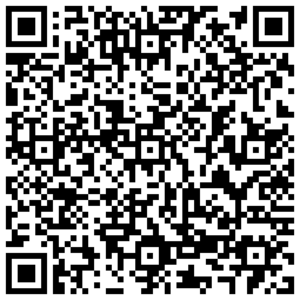
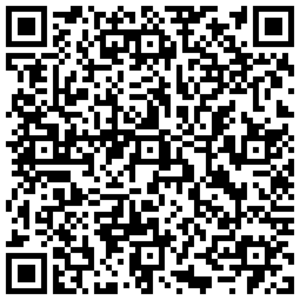
Update free configs - 2025-04-04

diff --git a/README.md b/README.md
@@ -1,6 +1,6 @@
 # 文档下方有很多可直接导入使用的高速节点/二维码订阅
 
-<p align='center'><strong>2025-04-03 12点准时更新每日免费节点，更多机场VPN优惠信息：<a href="https://vpn.tg10000.com">vpn.tg10000.com</a></strong></p>
+<p align='center'><strong>2025-04-04 12点准时更新每日免费节点，更多机场VPN优惠信息：<a href="https://vpn.tg10000.com">vpn.tg10000.com</a></strong></p>
 <p align='center'><strong>Telegram群:<a href="https://t.me/freevpn">@freevpntg</a></strong></p>
 
 
@@ -60,120 +60,120 @@
 
 <p align='center'><img src='img/1.png' alt='QR Code' width='300'></p>
 
-<p align='center'><code>ss://Y2hhY2hhMjAtaWV0Zi1wb2x5MTMwNTpkMmI4NzUxNS00ZDg1LTRiNzAtODg3OS00MWFjMWY4NWIyZTU=@free.2apzhfa.xyz:31141#0%7C%F0%9F%87%AD%F0%9F%87%B0%E9%A6%99%E6%B8%AF%2001%20%7C%201x%20HK</code></p>
+<p align='center'><code>ss://Y2hhY2hhMjAtaWV0Zi1wb2x5MTMwNTo3MmJiYjA4OS0xNWQ2LTQyNWUtYjRmNS05ODExZDFiMDVmYmY=@free.2apzhfa.xyz:31141#0%7C%F0%9F%87%AD%F0%9F%87%B0%E9%A6%99%E6%B8%AF%2001%20%7C%201x%20HK</code></p>
 
 <p align='center'><img src='img/2.png' alt='QR Code' width='300'></p>
 
-<p align='center'><code>ss://Y2hhY2hhMjAtaWV0Zi1wb2x5MTMwNTpkMmI4NzUxNS00ZDg1LTRiNzAtODg3OS00MWFjMWY4NWIyZTU=@free.2apzhfa.xyz:31143#0%7C%F0%9F%87%AD%F0%9F%87%B0%E9%A6%99%E6%B8%AF%2002%20%7C%201x%20HK</code></p>
+<p align='center'><code>ss://Y2hhY2hhMjAtaWV0Zi1wb2x5MTMwNTo3MmJiYjA4OS0xNWQ2LTQyNWUtYjRmNS05ODExZDFiMDVmYmY=@free.2apzhfa.xyz:31143#0%7C%F0%9F%87%AD%F0%9F%87%B0%E9%A6%99%E6%B8%AF%2002%20%7C%201x%20HK</code></p>
 
 <p align='center'><img src='img/3.png' alt='QR Code' width='300'></p>
 
-<p align='center'><code>ss://Y2hhY2hhMjAtaWV0Zi1wb2x5MTMwNTpkMmI4NzUxNS00ZDg1LTRiNzAtODg3OS00MWFjMWY4NWIyZTU=@free.2apzhfa.xyz:31145#0%7C%F0%9F%87%AD%F0%9F%87%B0%E9%A6%99%E6%B8%AF%E5%AE%B6%E5%AE%BD%2003%20%7C%201x%20HK</code></p>
+<p align='center'><code>ss://Y2hhY2hhMjAtaWV0Zi1wb2x5MTMwNTo3MmJiYjA4OS0xNWQ2LTQyNWUtYjRmNS05ODExZDFiMDVmYmY=@free.2apzhfa.xyz:31145#0%7C%F0%9F%87%AD%F0%9F%87%B0%E9%A6%99%E6%B8%AF%E5%AE%B6%E5%AE%BD%2003%20%7C%201x%20HK</code></p>
 
 <p align='center'><img src='img/4.png' alt='QR Code' width='300'></p>
 
-<p align='center'><code>ss://Y2hhY2hhMjAtaWV0Zi1wb2x5MTMwNTpkMmI4NzUxNS00ZDg1LTRiNzAtODg3OS00MWFjMWY4NWIyZTU=@free.2apzhfa.xyz:31241#0%7C%F0%9F%87%B9%F0%9F%87%BC%E5%8F%B0%E6%B9%BE%2001%20%7C%201x%20TW</code></p>
+<p align='center'><code>ss://Y2hhY2hhMjAtaWV0Zi1wb2x5MTMwNTo3MmJiYjA4OS0xNWQ2LTQyNWUtYjRmNS05ODExZDFiMDVmYmY=@free.2apzhfa.xyz:31241#0%7C%F0%9F%87%B9%F0%9F%87%BC%E5%8F%B0%E6%B9%BE%2001%20%7C%201x%20TW</code></p>
 
 <p align='center'><img src='img/5.png' alt='QR Code' width='300'></p>
 
-<p align='center'><code>ss://Y2hhY2hhMjAtaWV0Zi1wb2x5MTMwNTpkMmI4NzUxNS00ZDg1LTRiNzAtODg3OS00MWFjMWY4NWIyZTU=@free.2apzhfa.xyz:31243#0%7C%F0%9F%87%B9%F0%9F%87%BC%E5%8F%B0%E6%B9%BE%2002%20%7C%201x%20TW</code></p>
+<p align='center'><code>ss://Y2hhY2hhMjAtaWV0Zi1wb2x5MTMwNTo3MmJiYjA4OS0xNWQ2LTQyNWUtYjRmNS05ODExZDFiMDVmYmY=@free.2apzhfa.xyz:31243#0%7C%F0%9F%87%B9%F0%9F%87%BC%E5%8F%B0%E6%B9%BE%2002%20%7C%201x%20TW</code></p>
 
 <p align='center'><img src='img/6.png' alt='QR Code' width='300'></p>
 
-<p align='center'><code>ss://Y2hhY2hhMjAtaWV0Zi1wb2x5MTMwNTpkMmI4NzUxNS00ZDg1LTRiNzAtODg3OS00MWFjMWY4NWIyZTU=@free.2apzhfa.xyz:31245#0%7C%F0%9F%87%B9%F0%9F%87%BC%E5%8F%B0%E6%B9%BE%2003%20%7C%201x%20TW</code></p>
+<p align='center'><code>ss://Y2hhY2hhMjAtaWV0Zi1wb2x5MTMwNTo3MmJiYjA4OS0xNWQ2LTQyNWUtYjRmNS05ODExZDFiMDVmYmY=@free.2apzhfa.xyz:31245#0%7C%F0%9F%87%B9%F0%9F%87%BC%E5%8F%B0%E6%B9%BE%2003%20%7C%201x%20TW</code></p>
 
 <p align='center'><img src='img/7.png' alt='QR Code' width='300'></p>
 
-<p align='center'><code>ss://Y2hhY2hhMjAtaWV0Zi1wb2x5MTMwNTpkMmI4NzUxNS00ZDg1LTRiNzAtODg3OS00MWFjMWY4NWIyZTU=@free.2apzhfa.xyz:31111#0%7C%F0%9F%87%AF%F0%9F%87%B5%E6%97%A5%E6%9C%AC%2001%20%7C%201x%20JP</code></p>
+<p align='center'><code>ss://Y2hhY2hhMjAtaWV0Zi1wb2x5MTMwNTo3MmJiYjA4OS0xNWQ2LTQyNWUtYjRmNS05ODExZDFiMDVmYmY=@free.2apzhfa.xyz:31111#0%7C%F0%9F%87%AF%F0%9F%87%B5%E6%97%A5%E6%9C%AC%2001%20%7C%201x%20JP</code></p>
 
 <p align='center'><img src='img/8.png' alt='QR Code' width='300'></p>
 
-<p align='center'><code>ss://Y2hhY2hhMjAtaWV0Zi1wb2x5MTMwNTpkMmI4NzUxNS00ZDg1LTRiNzAtODg3OS00MWFjMWY4NWIyZTU=@free.2apzhfa.xyz:31113#0%7C%F0%9F%87%AF%F0%9F%87%B5%E6%97%A5%E6%9C%AC%2002%20%7C%201x%20JP</code></p>
+<p align='center'><code>ss://Y2hhY2hhMjAtaWV0Zi1wb2x5MTMwNTo3MmJiYjA4OS0xNWQ2LTQyNWUtYjRmNS05ODExZDFiMDVmYmY=@free.2apzhfa.xyz:31113#0%7C%F0%9F%87%AF%F0%9F%87%B5%E6%97%A5%E6%9C%AC%2002%20%7C%201x%20JP</code></p>
 
 <p align='center'><img src='img/9.png' alt='QR Code' width='300'></p>
 
-<p align='center'><code>ss://Y2hhY2hhMjAtaWV0Zi1wb2x5MTMwNTpkMmI4NzUxNS00ZDg1LTRiNzAtODg3OS00MWFjMWY4NWIyZTU=@free.2apzhfa.xyz:31115#0%7C%F0%9F%87%AF%F0%9F%87%B5%E6%97%A5%E6%9C%AC%2003%20%7C%201x%20JP</code></p>
+<p align='center'><code>ss://Y2hhY2hhMjAtaWV0Zi1wb2x5MTMwNTo3MmJiYjA4OS0xNWQ2LTQyNWUtYjRmNS05ODExZDFiMDVmYmY=@free.2apzhfa.xyz:31115#0%7C%F0%9F%87%AF%F0%9F%87%B5%E6%97%A5%E6%9C%AC%2003%20%7C%201x%20JP</code></p>
 
 <p align='center'><img src='img/10.png' alt='QR Code' width='300'></p>
 
-<p align='center'><code>ss://Y2hhY2hhMjAtaWV0Zi1wb2x5MTMwNTpkMmI4NzUxNS00ZDg1LTRiNzAtODg3OS00MWFjMWY4NWIyZTU=@free.2apzhfa.xyz:31171#0%7C%F0%9F%87%B8%F0%9F%87%AC%E6%96%B0%E5%8A%A0%E5%9D%A1%2001%20%7C%201x%20SG</code></p>
+<p align='center'><code>ss://Y2hhY2hhMjAtaWV0Zi1wb2x5MTMwNTo3MmJiYjA4OS0xNWQ2LTQyNWUtYjRmNS05ODExZDFiMDVmYmY=@free.2apzhfa.xyz:31171#0%7C%F0%9F%87%B8%F0%9F%87%AC%E6%96%B0%E5%8A%A0%E5%9D%A1%2001%20%7C%201x%20SG</code></p>
 
 <p align='center'><img src='img/11.png' alt='QR Code' width='300'></p>
 
-<p align='center'><code>ss://Y2hhY2hhMjAtaWV0Zi1wb2x5MTMwNTpkMmI4NzUxNS00ZDg1LTRiNzAtODg3OS00MWFjMWY4NWIyZTU=@free.2apzhfa.xyz:31173#0%7C%F0%9F%87%B8%F0%9F%87%AC%E6%96%B0%E5%8A%A0%E5%9D%A1%2002%20%7C%201x%20SG</code></p>
+<p align='center'><code>ss://Y2hhY2hhMjAtaWV0Zi1wb2x5MTMwNTo3MmJiYjA4OS0xNWQ2LTQyNWUtYjRmNS05ODExZDFiMDVmYmY=@free.2apzhfa.xyz:31173#0%7C%F0%9F%87%B8%F0%9F%87%AC%E6%96%B0%E5%8A%A0%E5%9D%A1%2002%20%7C%201x%20SG</code></p>
 
 <p align='center'><img src='img/12.png' alt='QR Code' width='300'></p>
 
-<p align='center'><code>ss://Y2hhY2hhMjAtaWV0Zi1wb2x5MTMwNTpkMmI4NzUxNS00ZDg1LTRiNzAtODg3OS00MWFjMWY4NWIyZTU=@free.2apzhfa.xyz:31175#0%7C%F0%9F%87%B8%F0%9F%87%AC%E6%96%B0%E5%8A%A0%E5%9D%A1%2003%20%7C%201x%20SG</code></p>
+<p align='center'><code>ss://Y2hhY2hhMjAtaWV0Zi1wb2x5MTMwNTo3MmJiYjA4OS0xNWQ2LTQyNWUtYjRmNS05ODExZDFiMDVmYmY=@free.2apzhfa.xyz:31175#0%7C%F0%9F%87%B8%F0%9F%87%AC%E6%96%B0%E5%8A%A0%E5%9D%A1%2003%20%7C%201x%20SG</code></p>
 
 <p align='center'><img src='img/13.png' alt='QR Code' width='300'></p>
 
-<p align='center'><code>ss://Y2hhY2hhMjAtaWV0Zi1wb2x5MTMwNTpkMmI4NzUxNS00ZDg1LTRiNzAtODg3OS00MWFjMWY4NWIyZTU=@free.2apzhfa.xyz:31311#0%7C%F0%9F%87%B0%F0%9F%87%B7%E9%9F%A9%E5%9B%BD%2001%20%7C%201x%20KR</code></p>
+<p align='center'><code>ss://Y2hhY2hhMjAtaWV0Zi1wb2x5MTMwNTo3MmJiYjA4OS0xNWQ2LTQyNWUtYjRmNS05ODExZDFiMDVmYmY=@free.2apzhfa.xyz:31311#0%7C%F0%9F%87%B0%F0%9F%87%B7%E9%9F%A9%E5%9B%BD%2001%20%7C%201x%20KR</code></p>
 
 <p align='center'><img src='img/14.png' alt='QR Code' width='300'></p>
 
-<p align='center'><code>ss://Y2hhY2hhMjAtaWV0Zi1wb2x5MTMwNTpkMmI4NzUxNS00ZDg1LTRiNzAtODg3OS00MWFjMWY4NWIyZTU=@free.2apzhfa.xyz:31313#0%7C%F0%9F%87%B0%F0%9F%87%B7%E9%9F%A9%E5%9B%BD%2002%20%7C%201x%20KR</code></p>
+<p align='center'><code>ss://Y2hhY2hhMjAtaWV0Zi1wb2x5MTMwNTo3MmJiYjA4OS0xNWQ2LTQyNWUtYjRmNS05ODExZDFiMDVmYmY=@free.2apzhfa.xyz:31313#0%7C%F0%9F%87%B0%F0%9F%87%B7%E9%9F%A9%E5%9B%BD%2002%20%7C%201x%20KR</code></p>
 
 <p align='center'><img src='img/15.png' alt='QR Code' width='300'></p>
 
-<p align='center'><code>ss://Y2hhY2hhMjAtaWV0Zi1wb2x5MTMwNTpkMmI4NzUxNS00ZDg1LTRiNzAtODg3OS00MWFjMWY4NWIyZTU=@free.2apzhfa.xyz:31341#0%7C%F0%9F%87%B5%F0%9F%87%AD%E8%8F%B2%E5%BE%8B%E5%AE%BE%2001%20%7C%201x%20PH</code></p>
+<p align='center'><code>ss://Y2hhY2hhMjAtaWV0Zi1wb2x5MTMwNTo3MmJiYjA4OS0xNWQ2LTQyNWUtYjRmNS05ODExZDFiMDVmYmY=@free.2apzhfa.xyz:31341#0%7C%F0%9F%87%B5%F0%9F%87%AD%E8%8F%B2%E5%BE%8B%E5%AE%BE%2001%20%7C%201x%20PH</code></p>
 
 <p align='center'><img src='img/16.png' alt='QR Code' width='300'></p>
 
-<p align='center'><code>ss://Y2hhY2hhMjAtaWV0Zi1wb2x5MTMwNTpkMmI4NzUxNS00ZDg1LTRiNzAtODg3OS00MWFjMWY4NWIyZTU=@free.2apzhfa.xyz:31211#0%7C%F0%9F%87%BA%F0%9F%87%B8%E7%BE%8E%E5%9B%BD%2001%20%7C%201x%20US%20Los%20Angeles</code></p>
+<p align='center'><code>ss://Y2hhY2hhMjAtaWV0Zi1wb2x5MTMwNTo3MmJiYjA4OS0xNWQ2LTQyNWUtYjRmNS05ODExZDFiMDVmYmY=@free.2apzhfa.xyz:31211#0%7C%F0%9F%87%BA%F0%9F%87%B8%E7%BE%8E%E5%9B%BD%2001%20%7C%201x%20US%20Los%20Angeles</code></p>
 
 <p align='center'><img src='img/17.png' alt='QR Code' width='300'></p>
 
-<p align='center'><code>ss://Y2hhY2hhMjAtaWV0Zi1wb2x5MTMwNTpkMmI4NzUxNS00ZDg1LTRiNzAtODg3OS00MWFjMWY4NWIyZTU=@free.2apzhfa.xyz:31213#0%7C%F0%9F%87%BA%F0%9F%87%B8%E7%BE%8E%E5%9B%BD%E5%AE%B6%E5%AE%BD%2002%20%7C%201x%20US%20Los%20Angeles</code></p>
+<p align='center'><code>ss://Y2hhY2hhMjAtaWV0Zi1wb2x5MTMwNTo3MmJiYjA4OS0xNWQ2LTQyNWUtYjRmNS05ODExZDFiMDVmYmY=@free.2apzhfa.xyz:31213#0%7C%F0%9F%87%BA%F0%9F%87%B8%E7%BE%8E%E5%9B%BD%E5%AE%B6%E5%AE%BD%2002%20%7C%201x%20US%20Los%20Angeles</code></p>
 
 <p align='center'><img src='img/18.png' alt='QR Code' width='300'></p>
 
-<p align='center'><code>ss://Y2hhY2hhMjAtaWV0Zi1wb2x5MTMwNTpkMmI4NzUxNS00ZDg1LTRiNzAtODg3OS00MWFjMWY4NWIyZTU=@free.2apzhfa.xyz:31215#0%7C%F0%9F%87%BA%F0%9F%87%B8%E7%BE%8E%E5%9B%BD%2003%20%7C%201x%20US%20Washington</code></p>
+<p align='center'><code>ss://Y2hhY2hhMjAtaWV0Zi1wb2x5MTMwNTo3MmJiYjA4OS0xNWQ2LTQyNWUtYjRmNS05ODExZDFiMDVmYmY=@free.2apzhfa.xyz:31215#0%7C%F0%9F%87%BA%F0%9F%87%B8%E7%BE%8E%E5%9B%BD%2003%20%7C%201x%20US%20Washington</code></p>
 
 <p align='center'><img src='img/19.png' alt='QR Code' width='300'></p>
 
-<p align='center'><code>ss://Y2hhY2hhMjAtaWV0Zi1wb2x5MTMwNTpkMmI4NzUxNS00ZDg1LTRiNzAtODg3OS00MWFjMWY4NWIyZTU=@free.2apzhfa.xyz:31271#0%7C%F0%9F%87%AC%F0%9F%87%A7%E8%8B%B1%E5%9B%BD%E5%AE%B6%E5%AE%BD%2001%20%7C%201x%20UK</code></p>
+<p align='center'><code>ss://Y2hhY2hhMjAtaWV0Zi1wb2x5MTMwNTo3MmJiYjA4OS0xNWQ2LTQyNWUtYjRmNS05ODExZDFiMDVmYmY=@free.2apzhfa.xyz:31271#0%7C%F0%9F%87%AC%F0%9F%87%A7%E8%8B%B1%E5%9B%BD%E5%AE%B6%E5%AE%BD%2001%20%7C%201x%20UK</code></p>
 
 <p align='center'><img src='img/20.png' alt='QR Code' width='300'></p>
 
-<p align='center'><code>ss://Y2hhY2hhMjAtaWV0Zi1wb2x5MTMwNTpkMmI4NzUxNS00ZDg1LTRiNzAtODg3OS00MWFjMWY4NWIyZTU=@free.2apzhfa.xyz:31741#0%7C%F0%9F%87%B9%F0%9F%87%AD%E6%B3%B0%E5%9B%BD01%20%20%7C%201x%20TH</code></p>
+<p align='center'><code>ss://Y2hhY2hhMjAtaWV0Zi1wb2x5MTMwNTo3MmJiYjA4OS0xNWQ2LTQyNWUtYjRmNS05ODExZDFiMDVmYmY=@free.2apzhfa.xyz:31741#0%7C%F0%9F%87%B9%F0%9F%87%AD%E6%B3%B0%E5%9B%BD01%20%20%7C%201x%20TH</code></p>
 
 <p align='center'><img src='img/21.png' alt='QR Code' width='300'></p>
 
-<p align='center'><code>ss://Y2hhY2hhMjAtaWV0Zi1wb2x5MTMwNTpkMmI4NzUxNS00ZDg1LTRiNzAtODg3OS00MWFjMWY4NWIyZTU=@free.2apzhfa.xyz:31721#0%7C%F0%9F%87%B2%F0%9F%87%BE%E9%A9%AC%E6%9D%A5%E8%A5%BF%E4%BA%9A01%20%7C%201x%20MY</code></p>
+<p align='center'><code>ss://Y2hhY2hhMjAtaWV0Zi1wb2x5MTMwNTo3MmJiYjA4OS0xNWQ2LTQyNWUtYjRmNS05ODExZDFiMDVmYmY=@free.2apzhfa.xyz:31721#0%7C%F0%9F%87%B2%F0%9F%87%BE%E9%A9%AC%E6%9D%A5%E8%A5%BF%E4%BA%9A01%20%7C%201x%20MY</code></p>
 
 <p align='center'><img src='img/22.png' alt='QR Code' width='300'></p>
 
-<p align='center'><code>ss://Y2hhY2hhMjAtaWV0Zi1wb2x5MTMwNTpkMmI4NzUxNS00ZDg1LTRiNzAtODg3OS00MWFjMWY4NWIyZTU=@free.2apzhfa.xyz:31371#0%7C%F0%9F%87%AE%F0%9F%87%B3%E5%8D%B0%E5%BA%A6%2001%20%7C%201x%20IN</code></p>
+<p align='center'><code>ss://Y2hhY2hhMjAtaWV0Zi1wb2x5MTMwNTo3MmJiYjA4OS0xNWQ2LTQyNWUtYjRmNS05ODExZDFiMDVmYmY=@free.2apzhfa.xyz:31722#0%7C%F0%9F%87%B2%F0%9F%87%BE%E9%A9%AC%E6%9D%A5%E8%A5%BF%E4%BA%9A02%20%7C%201x%20MY</code></p>
 
 <p align='center'><img src='img/23.png' alt='QR Code' width='300'></p>
 
-<p align='center'><code>ss://Y2hhY2hhMjAtaWV0Zi1wb2x5MTMwNTpkMmI4NzUxNS00ZDg1LTRiNzAtODg3OS00MWFjMWY4NWIyZTU=@free.2apzhfa.xyz:31411#0%7C%F0%9F%87%A6%F0%9F%87%BA%E6%BE%B3%E5%A4%A7%E5%88%A9%E4%BA%9A%2001%20%7C%201x%20AU</code></p>
+<p align='center'><code>ss://Y2hhY2hhMjAtaWV0Zi1wb2x5MTMwNTo3MmJiYjA4OS0xNWQ2LTQyNWUtYjRmNS05ODExZDFiMDVmYmY=@free.2apzhfa.xyz:31371#0%7C%F0%9F%87%AE%F0%9F%87%B3%E5%8D%B0%E5%BA%A6%2001%20%7C%201x%20IN</code></p>
 
 <p align='center'><img src='img/24.png' alt='QR Code' width='300'></p>
 
-<p align='center'><code>ss://Y2hhY2hhMjAtaWV0Zi1wb2x5MTMwNTpkMmI4NzUxNS00ZDg1LTRiNzAtODg3OS00MWFjMWY4NWIyZTU=@free.2apzhfa.xyz:31441#0%7C%F0%9F%87%A8%F0%9F%87%A6%E5%8A%A0%E6%8B%BF%E5%A4%A7%2001%20%7C%201x%20CA</code></p>
+<p align='center'><code>ss://Y2hhY2hhMjAtaWV0Zi1wb2x5MTMwNTo3MmJiYjA4OS0xNWQ2LTQyNWUtYjRmNS05ODExZDFiMDVmYmY=@free.2apzhfa.xyz:31411#0%7C%F0%9F%87%A6%F0%9F%87%BA%E6%BE%B3%E5%A4%A7%E5%88%A9%E4%BA%9A%2001%20%7C%201x%20AU</code></p>
 
 <p align='center'><img src='img/25.png' alt='QR Code' width='300'></p>
 
-<p align='center'><code>ss://Y2hhY2hhMjAtaWV0Zi1wb2x5MTMwNTpkMmI4NzUxNS00ZDg1LTRiNzAtODg3OS00MWFjMWY4NWIyZTU=@free.2apzhfa.xyz:31471#0%7C%F0%9F%87%A9%F0%9F%87%AA%E5%BE%B7%E5%9B%BD%2001%20%7C%201x%20DE</code></p>
+<p align='center'><code>ss://Y2hhY2hhMjAtaWV0Zi1wb2x5MTMwNTo3MmJiYjA4OS0xNWQ2LTQyNWUtYjRmNS05ODExZDFiMDVmYmY=@free.2apzhfa.xyz:31441#0%7C%F0%9F%87%A8%F0%9F%87%A6%E5%8A%A0%E6%8B%BF%E5%A4%A7%2001%20%7C%201x%20CA</code></p>
 
 <p align='center'><img src='img/26.png' alt='QR Code' width='300'></p>
 
-<p align='center'><code>ss://Y2hhY2hhMjAtaWV0Zi1wb2x5MTMwNTpkMmI4NzUxNS00ZDg1LTRiNzAtODg3OS00MWFjMWY4NWIyZTU=@free.2apzhfa.xyz:31511#0%7C%F0%9F%87%B7%F0%9F%87%BA%E4%BF%84%E7%BD%97%E6%96%AF%2001%20%7C%201x%20RU</code></p>
+<p align='center'><code>ss://Y2hhY2hhMjAtaWV0Zi1wb2x5MTMwNTo3MmJiYjA4OS0xNWQ2LTQyNWUtYjRmNS05ODExZDFiMDVmYmY=@free.2apzhfa.xyz:31471#0%7C%F0%9F%87%A9%F0%9F%87%AA%E5%BE%B7%E5%9B%BD%2001%20%7C%201x%20DE</code></p>
 
 <p align='center'><img src='img/27.png' alt='QR Code' width='300'></p>
 
-<p align='center'><code>ss://Y2hhY2hhMjAtaWV0Zi1wb2x5MTMwNTpkMmI4NzUxNS00ZDg1LTRiNzAtODg3OS00MWFjMWY4NWIyZTU=@free.2apzhfa.xyz:31571#0%7C%F0%9F%87%B9%F0%9F%87%B7%E5%9C%9F%E8%80%B3%E5%85%B6%2001%20%7C%201x%20TR</code></p>
+<p align='center'><code>ss://Y2hhY2hhMjAtaWV0Zi1wb2x5MTMwNTo3MmJiYjA4OS0xNWQ2LTQyNWUtYjRmNS05ODExZDFiMDVmYmY=@free.2apzhfa.xyz:31511#0%7C%F0%9F%87%B7%F0%9F%87%BA%E4%BF%84%E7%BD%97%E6%96%AF%2001%20%7C%201x%20RU</code></p>
 
 <p align='center'><img src='img/28.png' alt='QR Code' width='300'></p>
 
-<p align='center'><code>ss://Y2hhY2hhMjAtaWV0Zi1wb2x5MTMwNTpkMmI4NzUxNS00ZDg1LTRiNzAtODg3OS00MWFjMWY4NWIyZTU=@free.2apzhfa.xyz:31611#0%7C%F0%9F%87%BA%F0%9F%87%A6%E4%B9%8C%E5%85%8B%E5%85%B0%2001%20%7C%201x%20UA</code></p>
+<p align='center'><code>ss://Y2hhY2hhMjAtaWV0Zi1wb2x5MTMwNTo3MmJiYjA4OS0xNWQ2LTQyNWUtYjRmNS05ODExZDFiMDVmYmY=@free.2apzhfa.xyz:31571#0%7C%F0%9F%87%B9%F0%9F%87%B7%E5%9C%9F%E8%80%B3%E5%85%B6%2001%20%7C%201x%20TR</code></p>
 
 <p align='center'><img src='img/29.png' alt='QR Code' width='300'></p>
 
-<p align='center'><code>ss://Y2hhY2hhMjAtaWV0Zi1wb2x5MTMwNTpkMmI4NzUxNS00ZDg1LTRiNzAtODg3OS00MWFjMWY4NWIyZTU=@free.2apzhfa.xyz:31641#0%7C%F0%9F%87%BB%F0%9F%87%B3%E8%B6%8A%E5%8D%97%2001%20%7C%201x%20VN</code></p>
+<p align='center'><code>ss://Y2hhY2hhMjAtaWV0Zi1wb2x5MTMwNTo3MmJiYjA4OS0xNWQ2LTQyNWUtYjRmNS05ODExZDFiMDVmYmY=@free.2apzhfa.xyz:31611#0%7C%F0%9F%87%BA%F0%9F%87%A6%E4%B9%8C%E5%85%8B%E5%85%B0%2001%20%7C%201x%20UA</code></p>
 
 <p align='center'><img src='img/30.png' alt='QR Code' width='300'></p>
 
-<p align='center'><code>ss://Y2hhY2hhMjAtaWV0Zi1wb2x5MTMwNTpkMmI4NzUxNS00ZDg1LTRiNzAtODg3OS00MWFjMWY4NWIyZTU=@free.2apzhfa.xyz:31671#0%7C%F0%9F%87%A7%F0%9F%87%B7%E5%B7%B4%E8%A5%BF%2001%20%7C%201x%20BR</code></p>
+<p align='center'><code>ss://Y2hhY2hhMjAtaWV0Zi1wb2x5MTMwNTo3MmJiYjA4OS0xNWQ2LTQyNWUtYjRmNS05ODExZDFiMDVmYmY=@free.2apzhfa.xyz:31641#0%7C%F0%9F%87%BB%F0%9F%87%B3%E8%B6%8A%E5%8D%97%2001%20%7C%201x%20VN</code></p>
